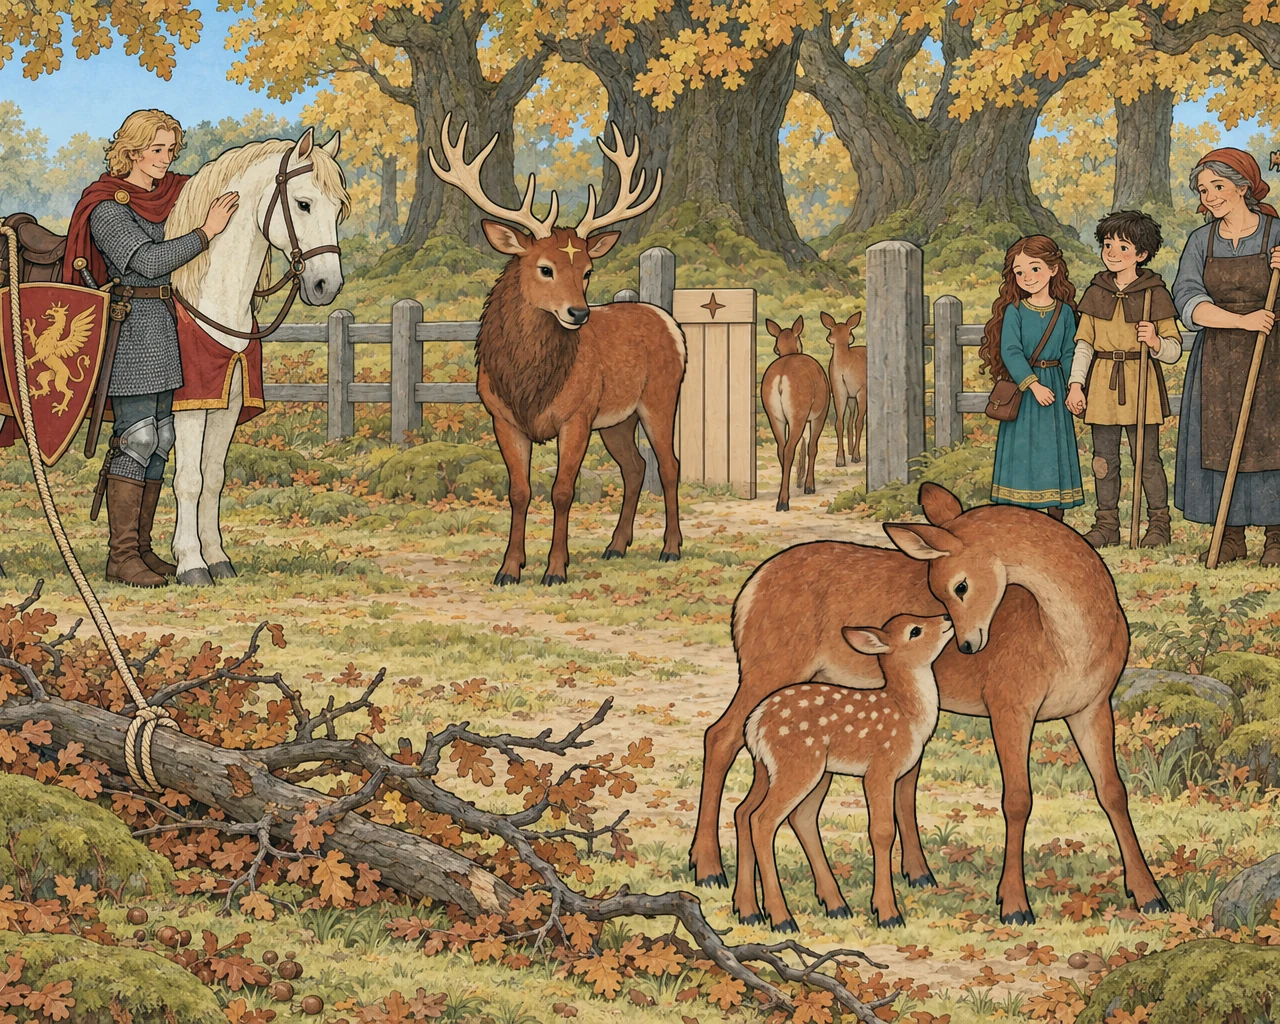
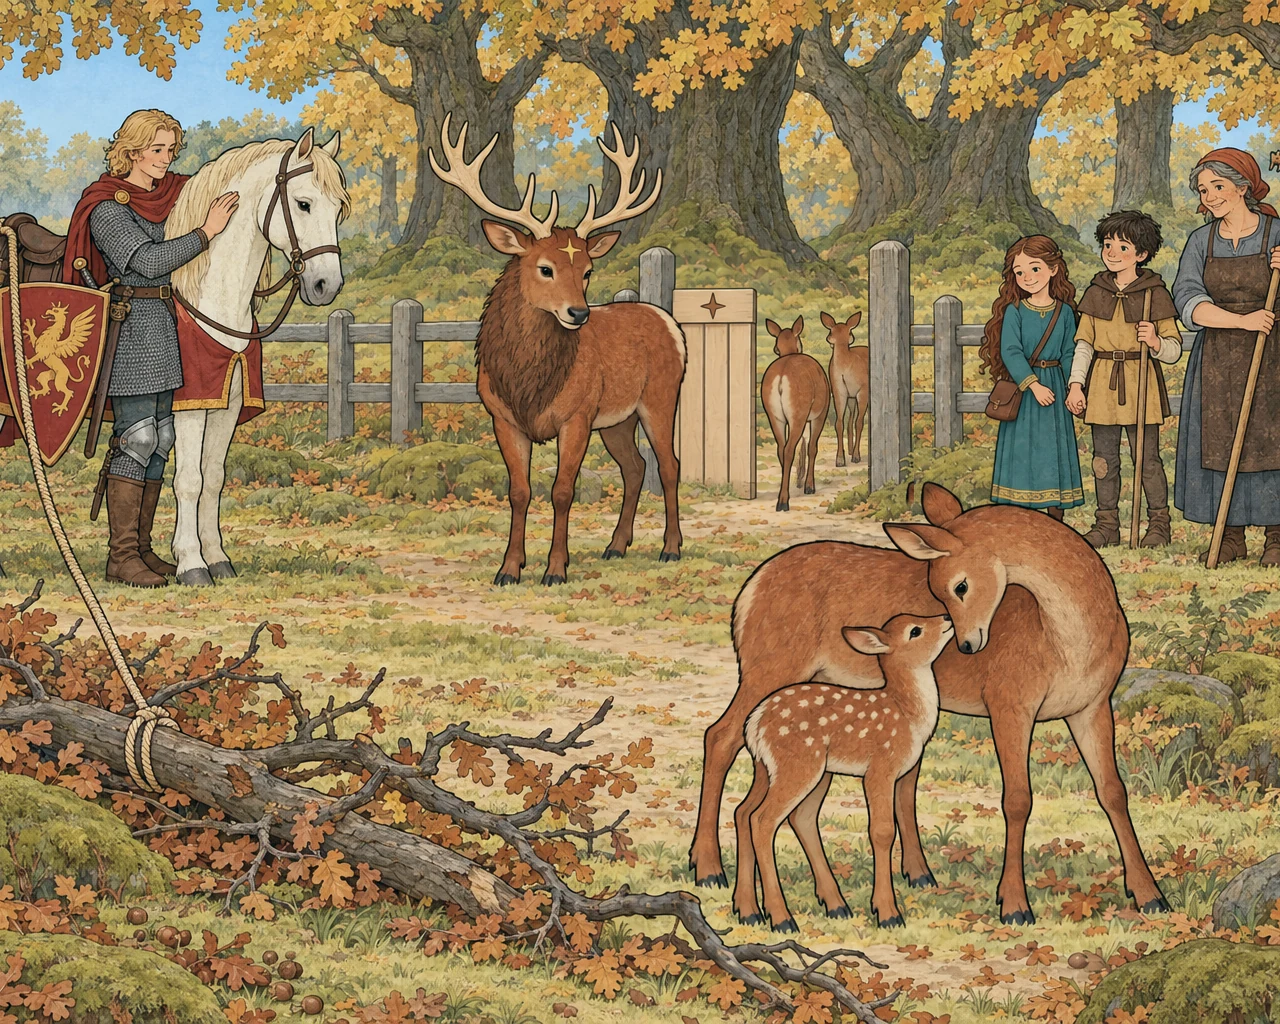
Forest third fresh check: the p9 post keeps its width, a clean boot on p9 make-way, a painted pink ear on p3

Changed region(s): [[0.6562, 0.2188, 0.75, 0.5]]

diff --git a/prototypes/prompts/_build_forest.py b/prototypes/prompts/_build_forest.py
@@ -576,7 +576,9 @@ MIST_FIRST.add("fo-p3-call-backf")
 # (1460,487; 0.55, rot 4). Other shipped edits: fo-p3-call-backh = g with the Big piglet's ear repainted pink;
 # fo-p8k = p8i + the grey posts of p8j; fo-p9-help-fawnk = help-fawni + the doe's and fawn's legs from j, and the
 # second, edge-on gate leaf covered by the old post stretched over it (x 1058-1121); fo-p9-make-wayi = make-wayh with
-# the Big piglet's second tail (1108-1131, 667-693) cloned away.
+# the Big piglet's second tail cloned away from the wood to its right (1109-1131, 677-693), leaving the boot above intact.
+# Third fresh check: fo-p9-help-fawnk now covers the edge-on leaf by moving the old post 15 px left (x 1060-1106, its
+# own width) and filling the gap with the next fence bay; fo-p3-call-backh's ear is the piglet's own skin texture.
 
 
 if __name__ == "__main__":
